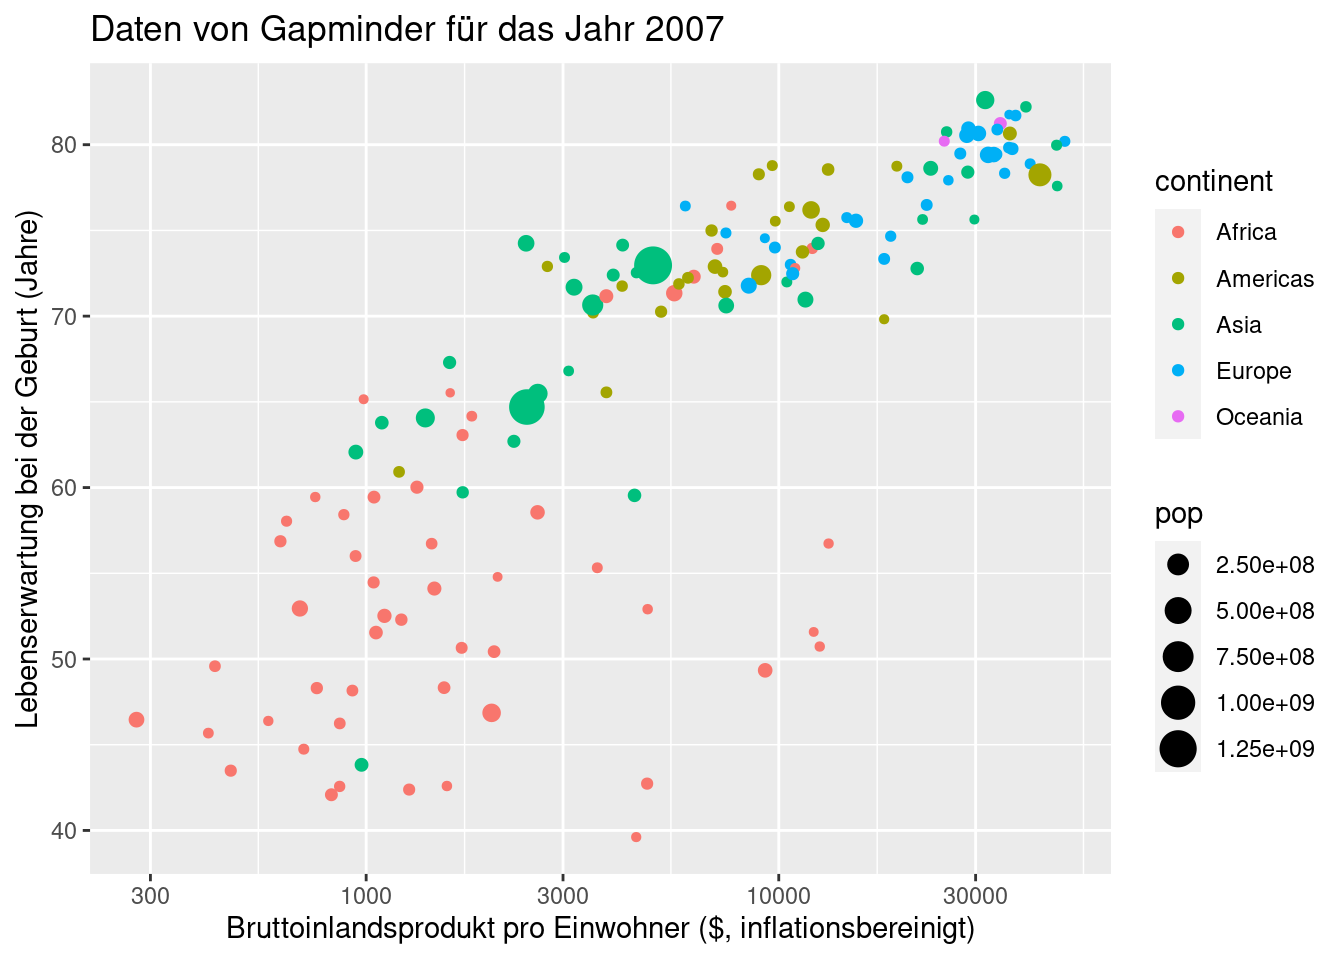
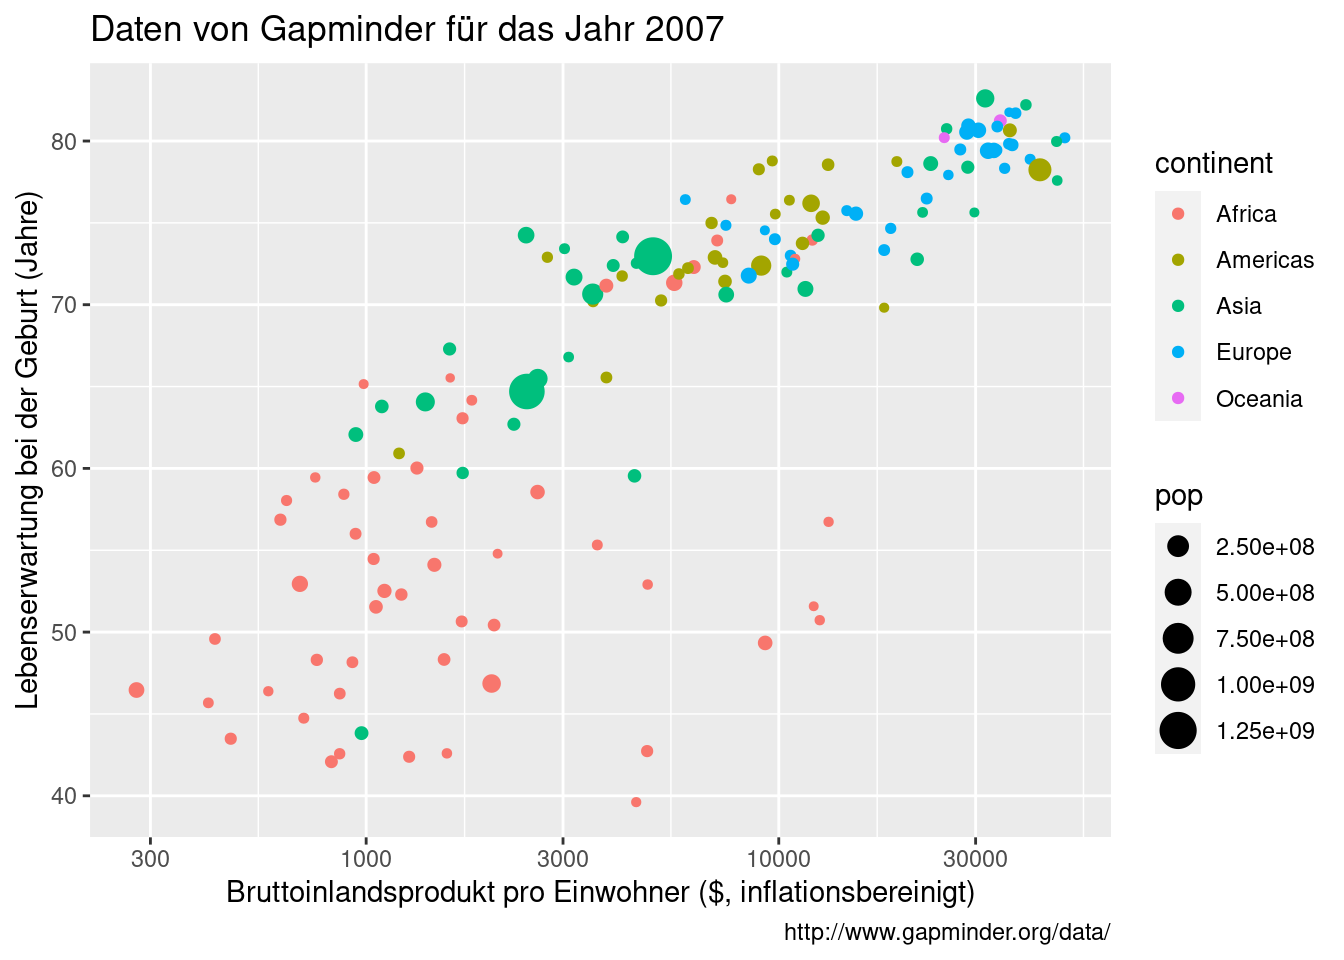
Fehler in kap 1

diff --git a/docs/01-erste-schritte.html b/docs/01-erste-schritte.html
@@ -297,11 +297,11 @@ div.csl-indent {
 <li>Spatial: Analyse von räumlichen Daten</li>
 <li>TimeSeries: Zeitreihenanalyse</li>
 </ul>
-<p>Zu Beginn des Kurses werden wir jedoch nicht auf Ihren lokalen Rechnern arbeiten, sondern auf der RStudio Server Pro, der extra für die digitale Lehre mit R an der UzK eingeführt wurde. Das ermöglicht einen schnelleren Einstieg in R und bietet eine fast-live Unterstützung durch den Dozenten beim Programmieren. Daher biete ich zu diesem frühen Zeitpunkt im Kurs keine Unterstützung bei der Installation von R auf Ihren Privatrechnern. Für die ganz Ungeduldigen, gibt es hier eine kurze <a href="https://www.youtube.com/watch?v=kygOqp_zijk&amp;list=PLG4WP9jv27SeMbBjhVcyXrGKQgnaex-0o&amp;t=14s">Einleitung zur Installation</a>.</p>
+<p>Zu Beginn des Kurses werden wir jedoch nicht auf Ihren lokalen Rechnern arbeiten, sondern auf den bereits eingerichteten Uni-Rechnern in den EDV-Räumen. Daher biete ich zu diesem frühen Zeitpunkt im Kurs keine Unterstützung bei der Installation von R auf Ihren Privatrechnern. Für die ganz Ungeduldigen, gibt es hier eine kurze <a href="https://www.youtube.com/watch?v=kygOqp_zijk&amp;list=PLG4WP9jv27SeMbBjhVcyXrGKQgnaex-0o&amp;t=14s">Einleitung zur Installation</a>.</p>
 </section>
 <section id="was-ist-rstudio" class="level2" data-number="1.2">
 <h2 data-number="1.2" class="anchored" data-anchor-id="was-ist-rstudio"><span class="header-section-number">1.2</span> Was ist RStudio?</h2>
-<p>RStudio Desktop ist eine Entwicklungsumgebung für R. Sie können die <em>open source</em> Version kostenlos für Ihren Rechner <a href="https://rstudio.com/products/rstudio/#rstudio-desktop">hier</a> herunterladen. Es gibt eine live Einführung in RStudio im Kurs. Zusätzlich können Sie hier ein <a href="https://www.youtube.com/watch?v=r5wOhFVWXUE&amp;list=PLG4WP9jv27SeMbBjhVcyXrGKQgnaex-0o">Video</a> dazu ansehen.</p>
+<p>RStudio Desktop ist eine Entwicklungsumgebung für R. <strong>Wichtig</strong>: RStudio wird erst nach R installiert und macht ohne R keinen Sinn. Sie können die <em>open source</em> Version kostenlos für Ihren Rechner <a href="https://rstudio.com/products/rstudio/#rstudio-desktop">hier</a> herunterladen, falls Sie sich entscheiden, (später) R auf Ihrem Rechner zu installieren. Es gibt eine live Einführung in RStudio im Kurs. Zusätzlich können Sie hier ein <a href="https://www.youtube.com/watch?v=r5wOhFVWXUE&amp;list=PLG4WP9jv27SeMbBjhVcyXrGKQgnaex-0o">Video</a> dazu ansehen.</p>
 <p>Die Oberfläche von RStudio ist in vier Bereiche unterteilt (<a href="#fig-rstudio">Figure&nbsp;<span>1.1</span></a>).</p>
 <div id="fig-rstudio" class="quarto-figure quarto-figure-left anchored">
 <figure class="figure">
@@ -445,7 +445,7 @@ div.csl-indent {
 <span id="cb1-3"><a href="#cb1-3" aria-hidden="true" tabindex="-1"></a><span class="co"># Zeige den Wert von x</span></span>
 <span id="cb1-4"><a href="#cb1-4" aria-hidden="true" tabindex="-1"></a>x</span></code><button title="Copy to Clipboard" class="code-copy-button"><i class="bi"></i></button></pre></div>
 </div>
-<p>Zuweisungen können in R entweder mit dem <code>=</code> erfolgen oder mit <code>&lt;-</code>. Beide Varianten sind gleichwertig. Dabei ist allerdings Pfeilrichtung entscheidend! <code>x &lt;- 42</code> bedeutet: Die linke Seite (Zahl 42) wird dem Objekt <code>x</code> zugeordnet. Wenn man die Pfeilrichtung umdreht, macht die Zuweisung keinen Sinn und man erhält eine Fehlermeldung.</p>
+<p>Zuweisungen können in R entweder mit dem <code>=</code> erfolgen oder mit <code>&lt;-</code>. Beide Varianten sind gleichwertig. Dabei ist allerdings Pfeilrichtung entscheidend! <code>x &lt;- 42</code> bedeutet: Die rechte Seite (Zahl 42) wird dem Objekt <code>x</code> zugeordnet. Wenn man die Pfeilrichtung umdreht, macht die Zuweisung keinen Sinn und man erhält eine Fehlermeldung.</p>
 <div class="cell">
 <div class="sourceCode cell-code" id="cb2"><pre class="sourceCode r code-with-copy"><code class="sourceCode r"><span id="cb2-1"><a href="#cb2-1" aria-hidden="true" tabindex="-1"></a><span class="co"># Sinnvolle Zuweisung</span></span>
 <span id="cb2-2"><a href="#cb2-2" aria-hidden="true" tabindex="-1"></a>x <span class="ot">&lt;-</span> <span class="dv">42</span></span>
@@ -513,9 +513,10 @@ div.csl-indent {
 <span id="cb7-7"><a href="#cb7-7" aria-hidden="true" tabindex="-1"></a><span class="fu">ggplot</span>(gapminder2007, <span class="fu">aes</span>(<span class="at">x =</span> gdpPercap, <span class="at">y =</span> lifeExp, <span class="at">color =</span> continent, <span class="at">size =</span> pop)) <span class="sc">+</span></span>
 <span id="cb7-8"><a href="#cb7-8" aria-hidden="true" tabindex="-1"></a>  <span class="fu">geom_point</span>() <span class="sc">+</span></span>
 <span id="cb7-9"><a href="#cb7-9" aria-hidden="true" tabindex="-1"></a>  <span class="fu">scale_x_log10</span>() <span class="sc">+</span></span>
-<span id="cb7-10"><a href="#cb7-10" aria-hidden="true" tabindex="-1"></a>  <span class="fu">xlab</span>(<span class="st">'Bruttoinlandsprodukt pro Einwohner ($, inflationsbereinigt)'</span>) <span class="sc">+</span></span>
-<span id="cb7-11"><a href="#cb7-11" aria-hidden="true" tabindex="-1"></a>  <span class="fu">ylab</span>(<span class="st">'Lebenserwartung bei der Geburt (Jahre)'</span>) <span class="sc">+</span></span>
-<span id="cb7-12"><a href="#cb7-12" aria-hidden="true" tabindex="-1"></a>  <span class="fu">labs</span>(<span class="at">title =</span> <span class="st">'Daten von Gapminder für das Jahr 2007'</span>)</span></code><button title="Copy to Clipboard" class="code-copy-button"><i class="bi"></i></button></pre></div>
+<span id="cb7-10"><a href="#cb7-10" aria-hidden="true" tabindex="-1"></a>  <span class="fu">labs</span>(<span class="at">x =</span> <span class="st">'Bruttoinlandsprodukt pro Einwohner ($, inflationsbereinigt)'</span>, </span>
+<span id="cb7-11"><a href="#cb7-11" aria-hidden="true" tabindex="-1"></a>       <span class="at">y =</span> <span class="st">'Lebenserwartung bei der Geburt (Jahre)'</span>,</span>
+<span id="cb7-12"><a href="#cb7-12" aria-hidden="true" tabindex="-1"></a>       <span class="at">title =</span> <span class="st">'Daten von Gapminder für das Jahr 2007'</span>,</span>
+<span id="cb7-13"><a href="#cb7-13" aria-hidden="true" tabindex="-1"></a>       <span class="at">caption =</span> <span class="st">'http://www.gapminder.org/data/'</span>)</span></code><button title="Copy to Clipboard" class="code-copy-button"><i class="bi"></i></button></pre></div>
 </div>
 <ul>
 <li>Welche Daten sind in diesem Datensatz enthalten? Nutzen Sie die Hilfe, i.e.&nbsp;<code>?gapminder</code>.</li>

diff --git a/docs/index.html b/docs/index.html
@@ -7,7 +7,7 @@
 <meta name="viewport" content="width=device-width, initial-scale=1.0, user-scalable=yes">
 
 <meta name="author" content="Christina Bogner">
-<meta name="dcterms.date" content="2022-10-16">
+<meta name="dcterms.date" content="2022-10-17">
 
 <title>Übung zur Vorlesung Statistik und Datenanalyse</title>
 <style>
@@ -198,7 +198,7 @@ div.csl-indent {
     <div>
     <div class="quarto-title-meta-heading">Published</div>
     <div class="quarto-title-meta-contents">
-      <p class="date">October 16, 2022</p>
+      <p class="date">October 17, 2022</p>
     </div>
   </div>
     
